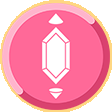
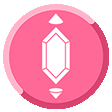
Change Title Hover Style

Changed region(s): [[0.0, 0.0, 1.0, 1.0]]

diff --git a/css/index.css b/css/index.css
@@ -66,6 +66,22 @@ img {
   filter: grayscale(0%);
 }
 
+.titlediv > .grayimg {
+  -webkit-filter: grayscale(0%);
+  -moz-filter: grayscale(0%);
+  -o-filter: grayscale(0%);
+  -ms-filter: grayscale(0%);
+  filter: grayscale(0%);
+}
+
+.titlediv > .hovorimg {
+  -webkit-filter: grayscale(0%);
+  -moz-filter: grayscale(0%);
+  -o-filter: grayscale(0%);
+  -ms-filter: grayscale(0%);
+  filter: grayscale(0%);
+}
+
 .select-content {
   justify-content: center;
   border-radius: 2px;
